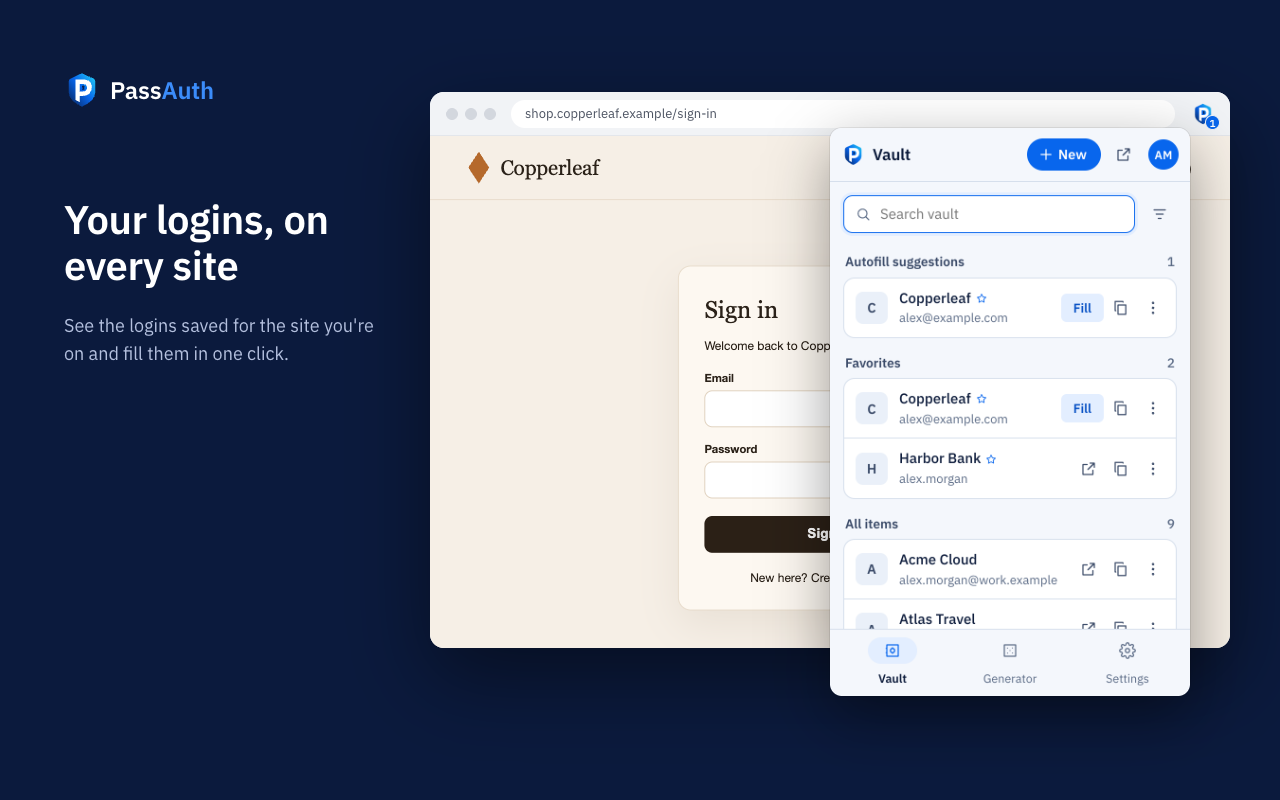
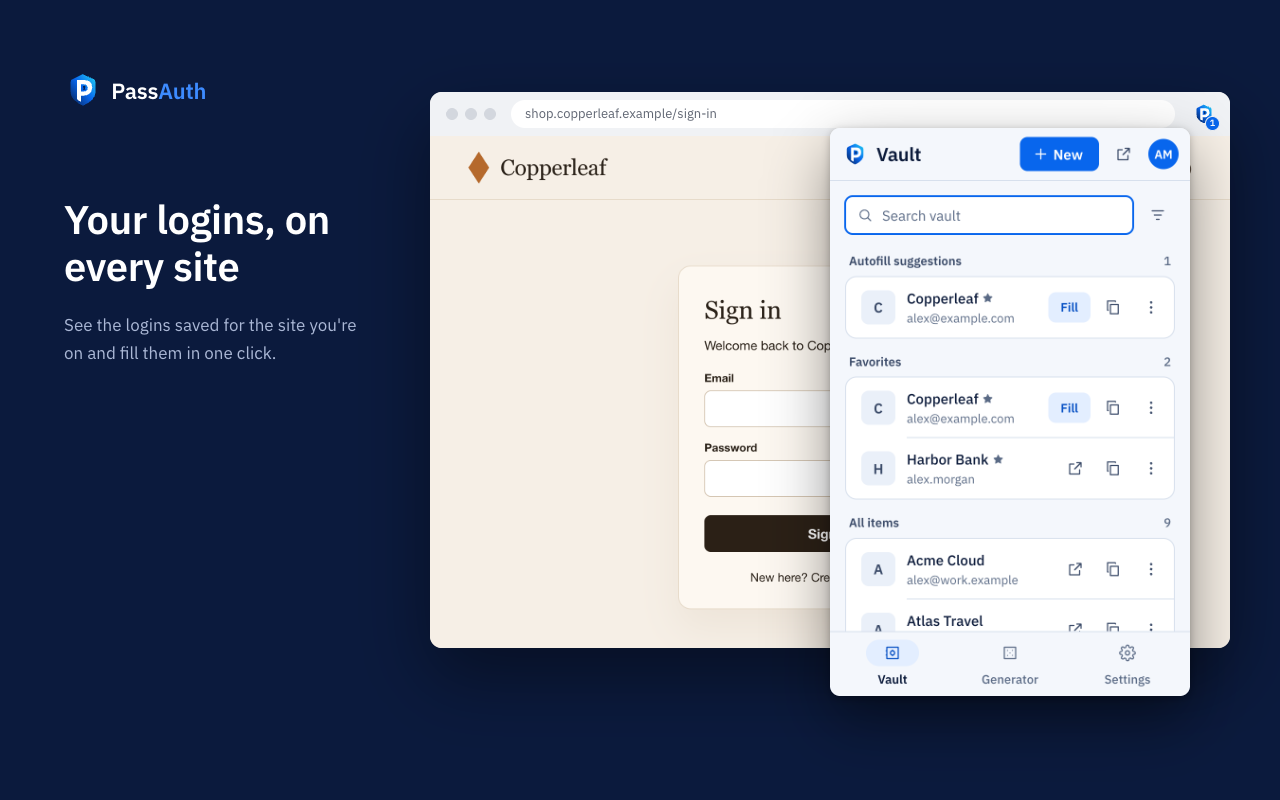
Docs and website: save rule, prompt layout, refreshed screenshots

diff --git a/docs/ARCHITECTURE.md b/docs/ARCHITECTURE.md
@@ -66,6 +66,8 @@ Item Key (random 256-bit per item) ─ wrapped by Vault Key ─► encrypts item
 - Real-time sync over WebSocket (`/api/ws`), plus a revision-date check for cheap polling.
 - Website icons: `GET /api/icons/{host}` (unauthenticated, used as `<img src>`; clients fall back to a letter avatar on error). The server fetches the site's `<link rel=icon>` or `/favicon.ico` defensively: public DNS names only, every resolved IP must be public and the connection is pinned to it, redirects re-validated (max 3), ports 80/443, 5 s budget, 100 KiB cap, only PNG/ICO/GIF/JPEG/WebP by magic bytes (never SVG/HTML), `CSP: default-src 'none'`. Hits cached 7 days, misses 1 day (`ICON_CACHE_DIR`, default `icons/` beside the SQLite file). Uncached fetches are rate-limited per client IP (60/min) and capped at 8 concurrent. `ICON_SERVICE=off` disables it. Privacy: the server learns which sites' icons are requested (not which user, not vault contents); turn it off if that matters.
 - Extension: login to any PassAuth server URL; autofill only on user action, in the top-level same-origin frame; inline save prompts; TOTP codes; acts as a WebAuthn **passkey provider** (ES256 keys stored inside the encrypted item, with fallback to browser or hardware keys).
+- **Save rule** (the same in every client that offers to save; one pure, unit-tested function each: extension `background/save-plan.ts`, iOS `Shared/SaveLogic.swift`, Android `autofill/SaveRule.kt`). `U` = typed user name (trimmed, compared case-insensitively, may be empty), `P` = typed password, `C` = logins matching the page; "own" = writable and in the user's personal vault. (1) Logins in `C` with user name `U`: one already has `P` → nothing to offer; else a writable one → update it; else (read-only) nothing. (2) None and `U` not empty: an own login with an empty user name (only a password was saved; prefer the one whose password is `P`) → update it; none → new login. (3) None and `U` empty: `P` already saved for the page → nothing; exactly one own login → update it; otherwise a new login. An update writes the password (old one to the password history) and the user name only when one was typed. Rules 2 and 3 never pick a shared vault: anyone can add a user to a shared vault and plant a login with an empty user name there, which would otherwise collect what the user types (see Sharing). Clients with their own prompt (extension save frame, iOS save sheet, Android sheet) show "Save in": the own logins for the page (plus a rule-1 login in a shared vault, labelled with its vault) and "New login", preselected from the plan; what the prompt showed is what is applied, and only a target that this pending save offered is accepted. A rule-3 update is never applied without that prompt (where none can be shown, a new login is saved instead). Pending saves are bound to the account that captured them and dropped on lock, logout and account switch. The extension's prompt is an extension-origin frame (like the inline menu), so the page never sees vault item names or user names, and form capture needs a user gesture.
+- **Prompts** ("decision sheet", every client): brand bar · context row (site tile, sentence-case title saying what is decided, domain beneath) · one grouped card of choices with a radio mark · verification directly above the actions · exactly one filled primary button, other actions as quiet text buttons. Tokens: spacing 4/8/12/16/24/32, radius 8/12/16 (web `app.css` `--space-*`/`--radius-*`/`--text-*`, iOS `PA.Space`/`PA.Radius`, Android `Theme.kt`). Shared parts: web `components/ui.tsx` (`Modal`, `ConfirmDialog`, `SheetActions`, classes `.sheet-*`, `.choices`, `.choice*`, `.tile`, `.btn-text`, `.setting*`, `.switch` — the extension popup depends on these names), extension `popup/sheet.tsx`, iOS `UI/DecisionSheet.swift`, Android `ui/components/DecisionSheet.kt`. Extension windows (passkey, unlock, pop-out) open centred over the requesting browser window and sized to their content (`shared/windows.ts`, maths in `shared/window-place.ts`).
 
 ## Android app (`android/`)
 - Gradle project with two modules. `:core` is an Android library holding the UniFFI bindings (`io.passauth.core`) and `libpassauth_ffi.so` (arm64-v8a, x86_64), both generated by `scripts/build-android-core.sh` and gitignored, plus JNA. `:app` is the app (`io.passauth.app`, minSdk 34, compile/target 36). Crypto only ever comes from the Rust core; items, bundles and KDF params cross as JSON in the server/web shape (`app/.../data/Item.kt` mirrors `web/src/lib/types.ts`).
@@ -74,7 +76,7 @@ Item Key (random 256-bit per item) ─ wrapped by Vault Key ─► encrypts item
 - Data layer (`app/.../data`): `VaultRepository` mirrors the extension's `background/vault.ts` (prelogin → OPAQUE → 2FA → bundle unlock → `/sync` → decrypt; create/update/trash; lock/logout; up to 5 accounts). `ApiClient` pins each request to one account and rotates refresh tokens on 401. `SecureStore` keeps tokens, settings and per-account data in a DataStore file encrypted with an Android Keystore AES-GCM key, plus an encrypted copy of the last `/sync` response (ciphertext) so the vault opens offline. Unlocked keys live only in memory as Rust handles.
 - Unlock: master password (+ stored Secret Key), or biometrics: `Account.toSessionBytes()` (64 bytes) is wrapped by a per-account Keystore key that requires strong biometric auth and is invalidated when biometrics change. Vault timeout and action like the extension (`LockManager`); with "never" the session bytes are kept in the encrypted store.
 - Hardening: no backup (`allowBackup=false`, extraction rules exclude everything), https only except `localhost`/`10.0.2.2` (network security config), `FLAG_SECURE` while unlocked or showing the Secret Key, clipboard copies marked sensitive and cleared after the user's delay, no secrets in logs.
-- Autofill service (`app/.../autofill`, `PassAuthAutofillService`): `StructureParser` reads the AssistStructure (visible enabled text fields, `webDomain`/`webScheme`, only fields of the focused site's frame); `FieldClassifier` finds username/password/one-time-code fields from autofill hints, input type, HTML attributes and id/hint text (patterns of the extension's `fields.ts`). `FillTarget.resolve` decides what may match: web content in a browser on the privileged allowlist (package + signing cert) or in a WebView whose domain's asset links list the app → by website (`UrlMatcher`, default-match setting; scheme missing → https; Android gives no path, so "exact"/"starts with" see `scheme://domain/`); any other app → logins with the website `androidapp://<package>`; a browser's own UI and PassAuth itself → nothing. Web logins never match apps and vice versa; the extension's https→http downgrade refusal applies. The PassAuth server's own web vault is an ordinary website (a login saved for the server's address is offered and saved there). Unlocked: one Dataset per login (drop-down + keyboard inline suggestions via `androidx.autofill`) plus "Open PassAuth". Locked: one "PassAuth is locked" entry whose authentication IntentSender opens `AutofillAuthActivity`, which unlocks (master password or biometrics) and returns the datasets in `EXTRA_AUTHENTICATION_RESULT`. Logins with a TOTP get per-dataset authentication: picking one runs `AutofillAuthActivity` (see-through, no UI when unlocked), which returns the filled Dataset with a fresh code (also filled into a one-time-code field) and copies it when "Copy verification code automatically" is on — the only reliable hook for running code at the moment of selection. Save: `SaveInfo` (password required, username optional, save when the form disappears, "Never" button → never-save list keyed by base domain or `androidapp://<package>`); `onSaveRequest` updates the same site+username login's password (old one kept in password history) or creates a login; locked → returns an IntentSender to unlock first (credentials stay in memory, never in the intent). Respects "Ask to save and update logins". Always the active account.
+- Autofill service (`app/.../autofill`, `PassAuthAutofillService`): `StructureParser` reads the AssistStructure (visible enabled text fields, `webDomain`/`webScheme`, only fields of the focused site's frame); `FieldClassifier` finds username/password/one-time-code fields from autofill hints, input type, HTML attributes and id/hint text (patterns of the extension's `fields.ts`). `FillTarget.resolve` decides what may match: web content in a browser on the privileged allowlist (package + signing cert) or in a WebView whose domain's asset links list the app → by website (`UrlMatcher`, default-match setting; scheme missing → https; Android gives no path, so "exact"/"starts with" see `scheme://domain/`); any other app → logins with the website `androidapp://<package>`; a browser's own UI and PassAuth itself → nothing. Web logins never match apps and vice versa; the extension's https→http downgrade refusal applies. The PassAuth server's own web vault is an ordinary website (a login saved for the server's address is offered and saved there). Unlocked: one Dataset per login (drop-down + keyboard inline suggestions via `androidx.autofill`) plus "Open PassAuth". Locked: one "PassAuth is locked" entry whose authentication IntentSender opens `AutofillAuthActivity`, which unlocks (master password or biometrics) and returns the datasets in `EXTRA_AUTHENTICATION_RESULT`. Logins with a TOTP get per-dataset authentication: picking one runs `AutofillAuthActivity` (see-through, no UI when unlocked), which returns the filled Dataset with a fresh code (also filled into a one-time-code field) and copies it when "Copy verification code automatically" is on — the only reliable hook for running code at the moment of selection. Save: `SaveInfo` (password required, username optional, save when the form disappears, "Never" button → never-save list keyed by base domain or `androidapp://<package>`); `onSaveRequest` applies the save rule (see Features; `SaveRule.kt`) when unlocked: new logins and rule-1/rule-2 updates silently, a rule-3 update only after the "Update login?" sheet (opened through the IntentSender); Android's save dialog carries a `CustomDescription` line saying whether a saved login will be updated or a new one added (chosen by conditions on the typed user name; only when the vault was unlocked at fill time and the place already has a login). Locked → returns an IntentSender to unlock first (credentials stay in memory, never in the intent), then an "Update login?" / "Save login?" sheet with "Save in" when there is something to choose; if Android can no longer open that sheet (the filled activity is gone), the pending save is applied at the next unlock of the same account within the 5-minute in-memory window (`SaveRule.withoutSheet`: a rule-3 update becomes a new login). Pending saves are bound to the account, removed on every exit and cleared on lock, logout and account switch; the consent sheets set `setHideOverlayWindows(true)` (permission `HIDE_OVERLAY_WINDOWS`). Passkey "Save in" (all clients) preselects only a personal-vault login for the exact host, else "New login"; shared-vault logins are listed with their vault's name. Respects "Ask to save and update logins". Always the active account.
 - Credential Manager provider (`app/.../credentials`, Android 14+, `androidx.credentials`): `PassAuthCredentialService` offers a `CreateEntry` for ES256/platform passkey requests, `PublicKeyCredentialEntry`s for matching passkeys (rpId, allowCredentials or discoverable) and `PasswordCredentialEntry`s (same matching as autofill); locked → an `AuthenticationAction`. `CredentialActivity` does the work after the user picks: origin check (`Origins`): privileged callers' origin from `CallingAppInfo.getOrigin(allowlist)` with `res/raw/privileged_allowlist.json` = Google Password Manager's published list (https://www.gstatic.com/gpm-passkeys-privileged-apps/apps.json, linked from the provider guide; Chrome stable/beta/dev/canary, Firefox, Edge, Brave, Samsung, …) and the RP ID checked against the origin like the extension's `effectiveRpId`; apps get `android:apk-key-hash:<b64url sha256(cert)>` and must be listed in `https://<rpId>/.well-known/assetlinks.json` (`delegate_permission/common.get_login_creds`, package + cert fingerprint; https, no redirects, 5 s, 256 KiB, cached 1 h; `include` not followed) or the request is refused. User verification: unlocking in the flow counts, otherwise BiometricPrompt (biometric or screen lock). excludeCredentials is checked after consent (InvalidStateError). Keys and signatures come from the core (`passkeyCreate`/`passkeyAssert`); clientDataJSON is built with `passkeyClientDataJson` for apps (and hashed), while browsers' `clientDataHash` is signed as given and the built JSON is only the placeholder the guide asks for. Responses are WebAuthn JSON; passkeys are stored like the extension's `storePasskey` (same fields, counter 0, discoverable), on the same site+username login or a new login for `https://<rpId>`.
 - Settings → Autofill shows whether PassAuth is the autofill service and the passkey provider, with buttons to Android's settings, plus default URI match, TOTP copy, clipboard clearing, "Ask to save and update logins" and the never-save list. Debug-only test hooks (gradle properties, never in release builds): `passauth.testAssetLinksBase` (asset links from a local server) and `passauth.testPrivilegedApp` (trust one more browser, e.g. a Chromium snapshot). `:samples:login` is a debug-only test app (login form + Credential Manager calls), not part of the app or its bundle.
 - Account deletion (Google Play requirement): Settings → About → Delete account. The master password is proven to the server with an OPAQUE login with `purpose: "reauth"` on the signed-in session (like the web vault's `reauth`), then `DELETE /api/account` with `x-reauth-token`; the account is then forgotten locally like Log out (biometric key, offline copy, stored Secret Key and two-step remember token removed; the last account keeps only the server address).
@@ -114,7 +116,7 @@ Item Key (random 256-bit per item) ─ wrapped by Vault Key ─► encrypts item
 - Account security (`App/AccountSecurityViews.swift`, data in `Shared/AccountSecurity.swift`, as the web vault's Security and Two-step login tabs): "Change master password" (current password (+ Secret Key if not stored), new + confirm with the master-password strength scale (Weak < 50 bits asks again before it's used, Fair < 65, Good < 80, Strong), "Use a Secret Key" (keep / turn on / turn off; new password may stay empty for a Secret Key change only), alert saying other devices are signed out) → `changeMasterPassword`: reauth → `Account.rewrap` → `/account/keys/start` → OPAQUE register finish → `/account/keys/finish` with `x-reauth-token`; a lost answer is checked against `/sync`'s bundle so a new Secret Key is never lost. Then on the device: the stored bundle (app and AutoFill unlock derive from it), the Secret Key (new one stored, removed when turned off), the two-step remember token (the server forgets them) and the session; the account key and key pair don't change, so the Face ID item and the "never" session bytes stay valid (the latter is rewritten), then a `/sync` refreshes the offline copy and the identity store. A new Secret Key is shown once (copy, Emergency Kit PDF via the share sheet (`App/EmergencyKit.swift`), "I saved my Secret Key" before Done, no swipe-away). "Two-step login": status from `GET /account`; authenticator setup sheet (QR code from Core Image, setup key in groups with Copy, "Open in authenticator app" = the `otpauth://` URL, `.oneTimeCode` 6-digit field), email codes (send, verify), recovery codes shown once (Copy all, Share, "I saved them", `interactiveDismissDisabled`), new recovery codes and turning a method off after the master password (`reauth` sheet, destructive button). Errors: wrong code, HTTP 429 "Too many attempts, try again later.", network (`securityErrorMessage`). Secrets live only in view state, cleared when the screens close; the app-switcher cover is on while they're shown.
 - Accessibility: icon buttons labelled, masked secrets read as "hidden", label + value rows combined, fixed-shape text (avatar, TOTP ring) doesn't scale, button rows stack when they don't fit (`ViewThatFits`). Checked at Accessibility XXL (`testLargeText`).
 - Tests: account security against a recording fake server (`AccountSecurityTests`: change-password request order, reauth header and local state, unlock with the new password only; TOTP enable, wrong code, 429; disable / new codes only with a reauth token; the shown-once guard) and `AccountSecurityUITests` (:8091: change password with a new Secret Key, lock/unlock, authenticator setup, recovery codes, sign in with two-step, turn off). Unit tests for OTP/QR parsing, export names and formats, live sync messages/backoff/URL, move request shape and password history (`Phase3Tests`), save decisions, password rules → generator and `saveLogin` against a recording fake server (`SaveGenerateTests`). `Phase3UITests` (needs the :8091 server; a QR image in Photos via `xcrun simctl addmedia`) acts as a second device through `UITests/TestServer.swift` (Rust core linked into the UI test bundle: register, 2FA, vaults, item edits). Registration is rate-limited (10/hour/IP): restart the throwaway server between many runs.
-- Saving logins (iOS 26.2, capability `SupportsSavePasswordCredentials`; the deployment target stays iOS 17, everything behind `@available(iOS 26.2, *)`): Safari's "Use Strong Password?" panel then lists "Save in PassAuth", and after a sign-up / password change form is submitted iOS calls `performWithoutUserInteractionIfPossible(savePasswordRequest:)`. Not offered (cancelled as `userCanceled`) when "Ask to save and update logins" is off, the page's base domain is on the never-save list (`Settings.neverSave`, same key as the extension and Android), the request has no website (app identifier) or no password, or for the `generatedPasswordFilled` event (the submit that follows brings the user name). Decision (`Shared/SaveLogic.swift`, as Android's `planSave`): a login matching the page (`AutofillMatcher.candidates`, default-match setting) with the same user name (case-insensitive) and the same password → nothing to do (completed); same user name, writable → update its password (`updateItem` puts the old one into `password_history`); only in a read-only vault → refused; otherwise a new login named after the host (without `www.`), website = page origin (`https://<domain>` for an app's associated domain), match "Default". Without UI only when the user already chose to save (`userInitiated`) and the vault opens by itself (timeout "never"); otherwise `userInteractionRequired` → `prepareInterface(for: ASSavePasswordRequest)` → unlock if needed → "Save this login?" / "Update the password?" with user name, revealable password, Save/Update, Not now, Never for this site. `VaultRepository.saveLogin` syncs first (so the plan uses the server's revisions; offline → error shown), then creates/updates; the identity store is rewritten by the sync and awaited (`CredentialIdentitySync.flush`, at most 3 s) before `completeSavePasswordRequest`.
+- Saving logins (iOS 26.2, capability `SupportsSavePasswordCredentials`; the deployment target stays iOS 17, everything behind `@available(iOS 26.2, *)`): Safari's "Use Strong Password?" panel then lists "Save in PassAuth", and after a sign-up / password change form is submitted iOS calls `performWithoutUserInteractionIfPossible(savePasswordRequest:)`. Not offered (cancelled as `userCanceled`) when "Ask to save and update logins" is off, the page's base domain is on the never-save list (`Settings.neverSave`, same key as the extension and Android), the request has no website (app identifier) or no password, or for the `generatedPasswordFilled` event (the submit that follows brings the user name). Decision: the shared save rule (see Features; `Shared/SaveLogic.swift` `plan`, `targets`, `plan(target:)`); a new login is named after the host (without `www.`), website = page origin (`https://<domain>` for an app's associated domain), match "Default". Without UI only when the user already chose to save (`userInitiated`) and the vault opens by itself (timeout "never"); otherwise `userInteractionRequired` → `prepareInterface(for: ASSavePasswordRequest)` → unlock if needed → "Save login?" / "Update login?" with user name, revealable password, "Save in" (writable logins for the page + "New login", preselected from the plan; an untouched choice is re-planned on the freshly synced vault), Save/Update, Not now, Never for this site. `VaultRepository.saveLogin(…target:)` syncs first (so the plan uses the server's revisions; offline → error shown), then creates/updates; the identity store is rewritten by the sync and awaited (`CredentialIdentitySync.flush`, at most 3 s) before `completeSavePasswordRequest`.
 - Password generation (iOS 26.2, `SupportsGeneratePasswordCredentials`, with UI by default): `performWithoutUserInteraction(generatePasswordsRequest:)` returns `ASGeneratedPassword`s (`.strong`, `.alphanumeric` when the strong one has symbols and the site doesn't require them, `.passphrase` when the rules accept it; the user's preferred type first) without touching the vault; `prepareInterface(for: ASGeneratePasswordsRequest)` shows a sheet (type picker, regenerate, "Use this password"). Rules: the password field's `passwordrules`, else Safari's quirks for the site, else the confirmation field's (`Shared/PasswordRules.swift`: `required`/`allowed` classes incl. custom `[…]`, `minlength`, `maxlength`, `max-consecutive`). They map onto the core generator: classes the site doesn't allow are turned off, required ones on, length = the user's clamped to the site's range; when the site allows only some special characters, the core's symbols are replaced by those (system CSPRNG); every result is checked against the rules (retried up to 50 times). Rules the core can't express (a required set no whole class covers, a maximum under 8, nothing usable) fall back to the user's settings (the sheet says so).
 - Seen on the iOS 27.0 simulator (`AutoFillUITests` AF6–AF8, page `tests/e2e/site/ios-signup.html`): focusing a new-password field shows Safari's "Use Strong Password?" panel with "Save in PassAuth" and "Fill Strong Password"; filling calls `performWithoutUserInteraction(generatePasswordsRequest:)` (no unlock) and fills PassAuth's first result into both fields; submitting then opens PassAuth's save sheet (unlock → "Save this login?"). A typed password brings iOS's own "Save Password? Choose where to save" alert (PassAuth / Passwords / Not Now) first; choosing PassAuth opens the sheet ("Update the password?" for a known user). iOS never called `prepareInterface(for: ASGeneratePasswordsRequest)` there (the suggestion pill only reopens the panel), so the generation sheet is compiled but not seen yet. `ASCredentialIdentityStore` calls may never answer on that simulator: identity writes are awaited at most 3 s.
 - Permissions (`App/PermissionsViews.swift`, rules in `Shared/Permissions.swift`): first launch shows "Set up PassAuth" once (before "Connect to your server"; not on devices that already have accounts; shared `Settings.permissions.introShown`) listing only what the app uses, each with its own button, then Continue / Skip for now; the same list is Settings → Permissions with the status. AutoFill (`ASSettingsHelper.requestToTurnOnCredentialProviderExtension` on iOS 18, else the AutoFill settings; identity store state with a 2 s timeout, unknown when it doesn't answer), Face ID / Touch ID (`evaluatePolicy` brings up the system prompt; denied = `biometryNotAvailable` with the hardware present; "allowed" remembered, after which the first sign-in or unlock offers "Unlock with Face ID?" once), camera (`AVCaptureDevice`), local network (no API, TN3179: a short `NWBrowser` browse for `_passauth._tcp` (`NSBonjourServices`); `kDNSServiceErr_PolicyDenied` = not allowed, "ready" once the app is active again after the prompt = allowed, else unknown; the last result is kept and re-checked when the list is shown). Denied → "Open Settings". UI tests skip the screen with `-PASkipPermissions` except `testFullFlow` and `PermissionsUITests`.
